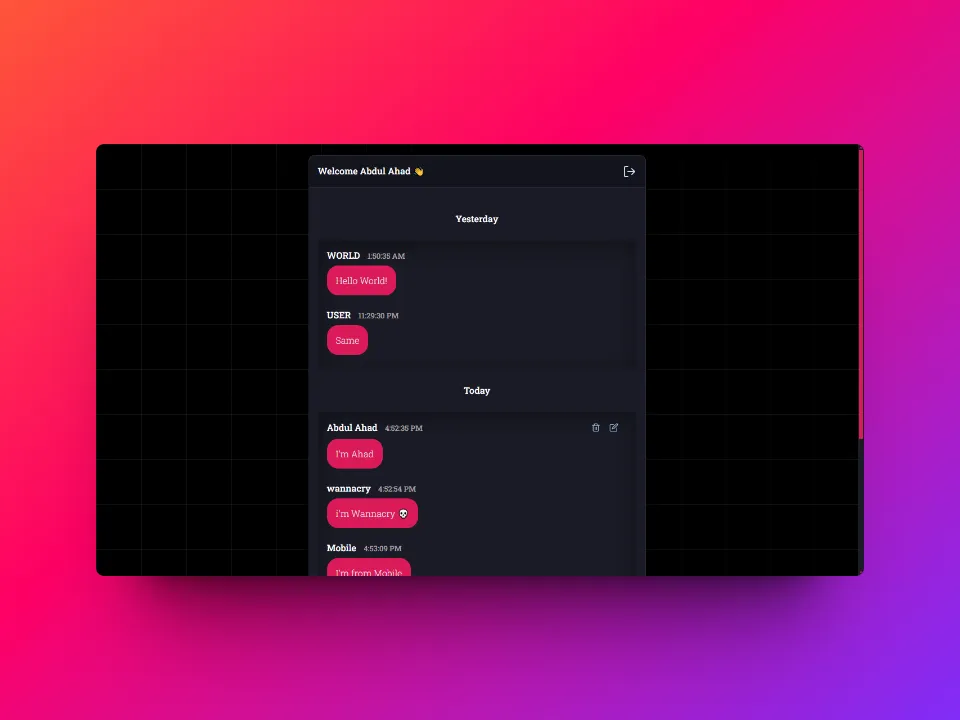
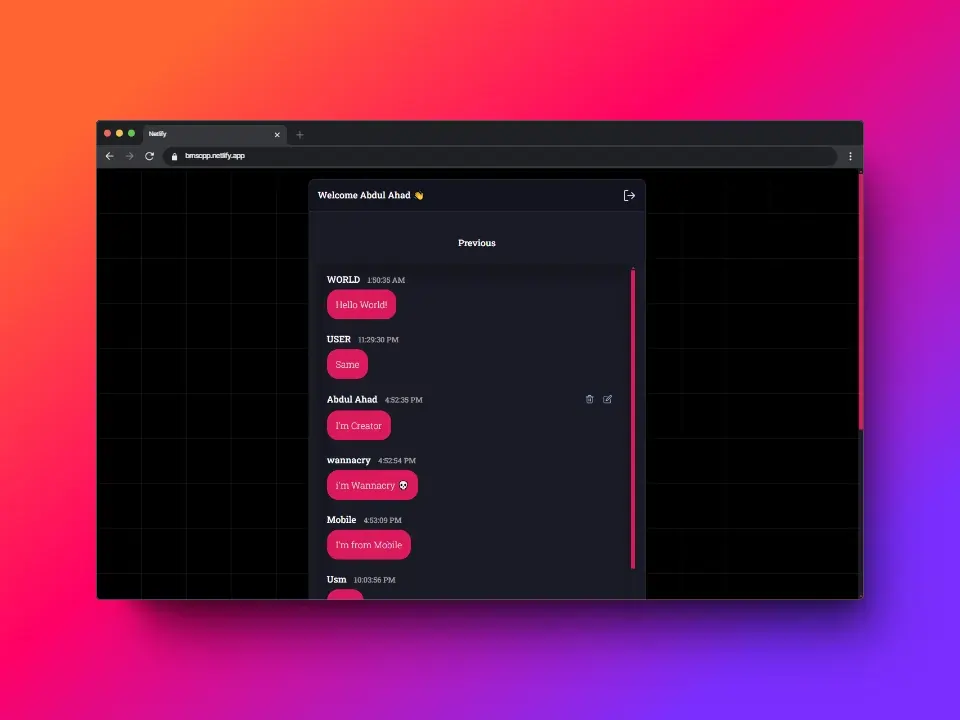
Added BMS

diff --git a/src/components/Data.jsx b/src/components/Data.jsx
@@ -23,8 +23,18 @@ import snakegameImage from "../assets/snakegame.webp";
 import pianogameImage from "../assets/pianogame.webp";
 import colorpaletteImage from "../assets/colorpalette.webp";
 import chatappImage from "../assets/chatapp.webp";
+import bmsImage from "../assets/bms.webp";
 
 const Data = [
+  {
+    imgUrl: bmsImage,
+    altText: "BankManagementSystem",
+    title: "Bank Management System",
+    description:
+      "A Banking Management System build with C++ for Front-End and js for backend.",
+    github: "https://github.com/ahad324/BankManagementSystemCpp",
+    LiveUrl: "https://bmscpp.netlify.app/",
+  },
   {
     imgUrl: chatappImage,
     altText: "Chat App",
